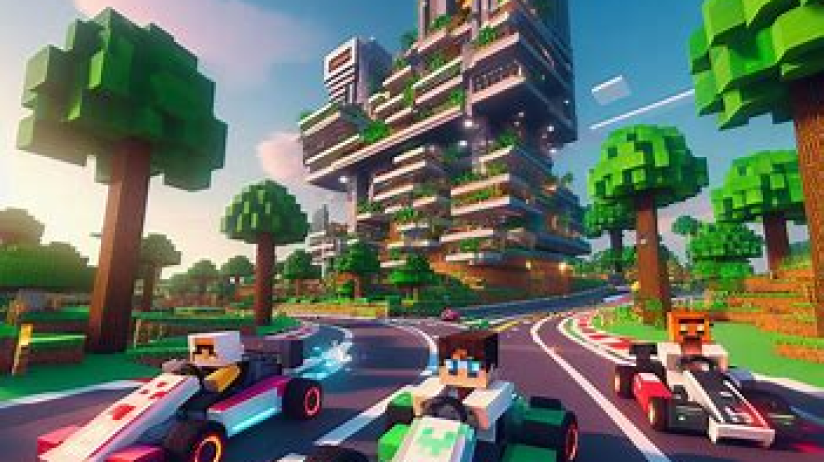
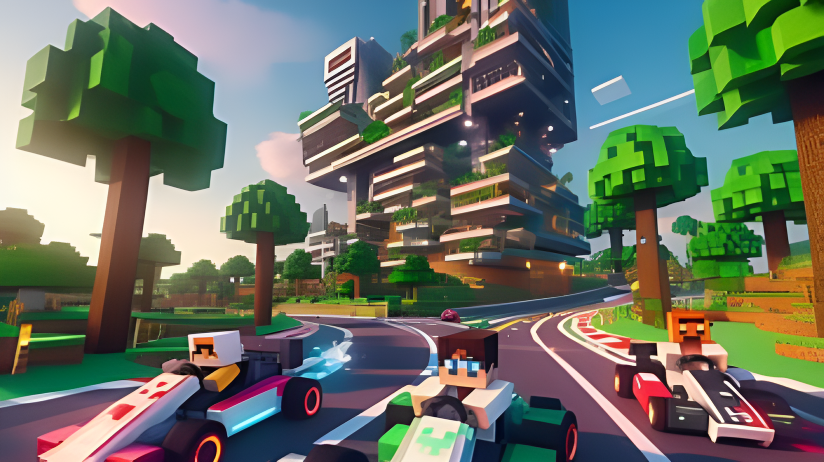
Update image resolution, optimize performance, fix bugs

diff --git a/src/app/components/layouts/Header.tsx b/src/app/components/layouts/Header.tsx
@@ -35,7 +35,7 @@ export function Header() {
           className="fixed top-0 z-[60] h-screen w-screen bg-black/30 backdrop-blur-sm lg:hidden"
         ></div>
       )}
-      <header className="delay-1s fixed top-0 z-[60] w-screen bg-[linear-gradient(360deg,_rgba(38,_38,_38,_0.00)_0%,_rgba(38,_38,_38,_0.61)_47.92%,_#262626_100%)]">
+      <header className="delay-2s fixed top-0 z-[60] w-screen bg-[linear-gradient(360deg,_rgba(38,_38,_38,_0.00)_0%,_rgba(38,_38,_38,_0.61)_47.92%,_#262626_100%)]">
         <div className="mx-auto h-[82px] max-w-[calc(100%_-_38px)] lg:flex lg:h-[90px] lg:max-w-[calc(100%_-_72px)] lg:items-center lg:justify-between xl:max-w-[calc(100%_-_300px)] 2xl:h-[131px] 2xl:max-w-[1227px]">
           <div className="z-50 flex items-center justify-center p-[19px] lg:h-full lg:p-[unset]">
             <Link href="/">

diff --git a/src/app/constant.ts b/src/app/constant.ts
@@ -132,7 +132,7 @@ export const GAME_EXPORES = {
   CAR_RACING: {
     name: 'CAR RACING',
     icon: CrossbowIcon,
-    image: '/game-cd2.png',
+    image: '/game-cd2.webp',
     description:
       "Race to earn in RetroCraft! Customize, compete, and conquer on pixel-art tracks. It's not just a race; it's a competitive thrill with rewards at every turn!",
     levelToPlay: 'RACE',
@@ -170,7 +170,7 @@ export const FEATURE_GAMES = {
         'https://whitepaper.retrocraft.io/what-is-retrocraft-games/game-world'
     },
     {
-      image: '/car-racing-bg.png',
+      image: '/car-racing-bg.webp',
       name: 'CAR RACING',
       shortDesc: 'desc',
       learnMore:

diff --git a/src/app/components/layouts/Footer.tsx b/src/app/components/layouts/Footer.tsx
@@ -14,7 +14,7 @@ export const Footer = () => {
   const ContactUsElement: any = CONTACT_US.value ? 'Link' : 'span';
 
   return (
-    <footer>
+    <footer className="delay-2s">
       <div className="relative mx-auto flex max-w-[calc(100%_-_38px)] flex-col gap-[24px] pb-[41px] pt-[92px] lg:max-w-[calc(100%_-_72px)] lg:flex-row lg:justify-between lg:pb-[59px] lg:pt-0 2xl:max-w-[1227px]">
         <Link href="/">
           <Image

diff --git a/src/app/globals.css b/src/app/globals.css
@@ -200,8 +200,23 @@ main {
   }
 }
 
-.delay-1s {
+@keyframes no-scroll {
+  from {
+    height: 100vh;
+    overflow: hidden;
+  }
+  to {
+    height: unset;
+    overflow: unset;
+  }
+}
+
+.delay-2s {
   animation: show 0.5s both 1.5s;
+}
+
+.no-scroll-2s {
+  animation: no-scroll 0.5s both 1.5s;
 }
 
 .logo-loading {

diff --git a/src/app/components/features/WelcomeBannerSection.tsx b/src/app/components/features/WelcomeBannerSection.tsx
@@ -56,7 +56,7 @@ export const WelcomeBanner: FC<HTMLAttributes<HTMLElement>> = ({
   return (
     <section
       className={mergeClasses(
-        `delay-1s relative lg:flex lg:flex-col lg:justify-between`,
+        `relative lg:flex lg:flex-col lg:justify-between`,
         className
       )}
       {...props}

diff --git a/src/app/page.tsx b/src/app/page.tsx
@@ -6,7 +6,7 @@ import { WelcomeBanner } from './components/features/WelcomeBannerSection';
 
 export default function () {
   return (
-    <main>
+    <main className="delay-2s">
       <WelcomeBanner className="mb-[36px] md:mb-0" />
       <ExploreSection className="overflow-x-hidden" />
       <GameOverview />

diff --git a/src/app/layout.tsx b/src/app/layout.tsx
@@ -32,7 +32,7 @@ export default function RootLayout({ children }) {
       </head>
       <body
         suppressHydrationWarning={true}
-        className={font.className + ' bg-black'}
+        className={font.className + ' no-scroll-2s bg-black'}
       >
         <Logo />
         <Header />
